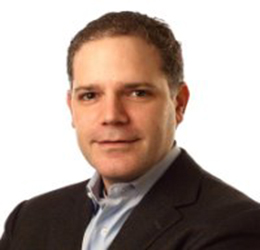
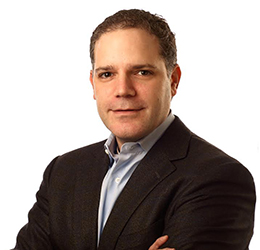
update Wesis profile and Andrew Feller's photo

diff --git a/index.html b/index.html
@@ -415,7 +415,7 @@
                            </div>
                            <div class="tz_our_speakers_container">
                                <h4> Michael S Weiss </h4>
-                               <span> Executive Director, Business Development and M&A, Cordlife Group Limited<br><br></span>
+                               <span> M&A Advisor, Sanpower Group<br>Executive Director, Business Development and M&A, Cordlife Group Limited<br></span>
                            </div>
                        </div>
                        <div class="tz-md-modal-speakers md-modal md-effect-16 modal-16">
@@ -434,14 +434,15 @@
                                </div>
                                <div class="tz_modal_speakers_content">
                                    <p>
-                                   Mr. Weiss is an Advisor to Sanpower Group, consulting on that company’s cross-border investment activities, and an Executive Director of the Board and Business Development Head at one of Sanpower's investee companies, Cordlife Group Limited. He has executed Sanpower’s investments in Brookstone Holdings, Cordlife and its pending acquisition of Dendreon. Mr Weiss has over 18 years of experience in the finance and investment sectors in the United States and Asia, and has worked on numerous M&A transactions with many Chinese companies, including China Development Bank Capital, China Resources Gas, China Southern Grid, SinoTruk and others. Prior to his current positions, Mr. Weiss was a Partner and Managing Director at cross-border private equity firm, Sailing Capital, China’s largest RMB fund primarily investing overseas. He also served as Managing Director of Morgan Stanley’s China mergers advisory unit and had held investment banking positions at Credit Suisse Group and Citigroup, where he transacted over $20 billion in M&A and capital markets transactions. 
-                                   <br>Mr. Weiss obtained his Master of Arts in Regional Studies-East Asia, focusing on Chinese business history, from Harvard University. He also holds a Bachelor degree in East Asian Studies from Northwestern University.
-									<br>魏思明
-									<br>三胞集团并购顾问、康盛人生集团企业发展及并购部执行董事
-
-									<br>魏先生为三胞集团提供跨境并购咨询，并担任三胞集团旗下康盛人生集团企业发展及并购部执行董事。三胞集团是一家位于中国的大型综合民营企业，其总资产超过1,000亿人民币。魏先生主导了三胞集团重大的海外投资项目，包括美国专业零售商Brookstone、亚洲领先脐带血库运营商康盛人生及加拿大药企Valeant旗下癌症业务的收购。
-
-									<br>魏先生在美国及亚洲拥有将近20年的直接投资及并购经验。在加入三胞之前，魏先生曾任中国最大的人民币跨境并购基金赛领资本合伙人及董事经理。在此之前，魏先生也曾担任摩根士丹利中国并购部董事经理，并在瑞士信贷银行及花旗银行从事并购业务。
+                                   Mr. Weiss is an Advisor to Sanpower Group, consulting on that company’s cross-border investment activities, and an Executive Director of the Board and Business Development Head at one of Sanpower's investee companies, Cordlife Group Limited. He has executed Sanpower’s investments in Brookstone Holdings, Cordlife and its pending acquisition of Dendreon. Mr Weiss has over 18 years of experience in the finance and investment sectors in the United States and Asia, and has worked on numerous M&A transactions with many Chinese companies, including China Development Bank Capital, China Resources Gas, China Southern Grid, SinoTruk and others. Prior to his current positions, Mr. Weiss was a Partner and Managing Director at cross-border private equity firm, Sailing Capital, China’s largest RMB fund primarily investing overseas. He also served as Managing Director of Morgan Stanley’s China mergers advisory unit and had held investment banking positions at Credit Suisse Group and Citigroup, where he transacted over $20 billion in M&A and capital markets transactions. 
+ 
+									<br>Mr. Weiss obtained his Master of Arts in Regional Studies-East Asia, focusing on Chinese business history, from Harvard University. He also holds a Bachelor degree in East Asian Studies from Northwestern University. Mr. Weiss is fluent in Mandarin Chinese.
+									<br>三胞集团并购顾问, 康盛人生集团企业发展及并购部执行董事。
+ 
+									<br>Weiss先生为三胞集团提供跨境并购咨询，并担任三胞集团旗下康盛人生集团企业发展及并购部执行董事。三胞集团是一家位于中国的大型综合民营企业，其总资产超过1,000亿人民币。Weiss先生主导了三胞集团重大的海外投资项目，包括美国专业零售商Brookstone、亚洲领先脐带血库运营商康盛人生及加拿大药企Valeant旗下癌症业务的收购。
+ 
+									<br>Weiss先生在美国及亚洲拥有将近20年的直接投资及并购经验。在加入三胞之前，Weiss先生曾任中国最大的人民币跨境并购基金赛领资本合伙人及董事经理。在此之前，Weiss先生也曾担任摩根士丹利中国并购部董事经理，并在瑞士信贷银行及花旗银行从事并购业务。
+ 
 									<br>Weiss先生毕业于美国哈佛大学及西北大学，拥有东亚研究学士及硕士学位。
 									</p>
                                </div>
@@ -753,7 +754,6 @@
                                    Ms. Yiting Liu is a Partner and the COO of Coalescence Partners, a U.S. based investment management company. Ms. Liu was previously a Founding Partner of HuiEn Capital and advised Chinese institutions and family offices looking to invest in the United States and/or to join ventures with U.S. institutions. Prior to HuiEn, Ms. Liu was a Co-Founder of Ray Shi Capital, an investment management company focused on small and mid-cap Chinese equities. Prior to Ray Shi Capital, Ms. Liu focused on the investment and management Vision Opportunity China Fund as the Vice President of Greater China. Ms. Liu had also worked at PepsiCo’s corporate strategy and development group, where she devised operational strategies and analyzed strategic acquisitions. Prior to PepsiCo, Ms. Liu worked at the Boston Consulting Group, a premier management consulting firm, where she developed solutions to key strategic and operational issues for world-class corporations. 
 									<br>Ms. Liu graduated from Harvard with honors in Applied Math with an Applied Field in Economics. She is a Board Member of the Asian Financial Society.
 
-									<br>刘亦婷
 									<br>刘亦婷女士为Coalescence Partners的合伙人和首席运营官。在加入Coalescence Partners之前，刘女士曾联合创立了惠恩资本，专注于为中资机构投资美国或与美国企业合资提供咨询服务。刘女士在创办惠恩资本之前，作为睿识资本的创始人，有着对中国中小板上市公司多年的投资经验。刘女士还曾经在百事集团和波士顿咨询公司任职，对企业经营和策略尤其是跨国企业经营有着丰富的经验。
 
 									<br>刘亦婷女士毕业于哈弗大学应用数学专业并获得学士学位。刘女士同时还是亚洲金融协会的董事会成员。
